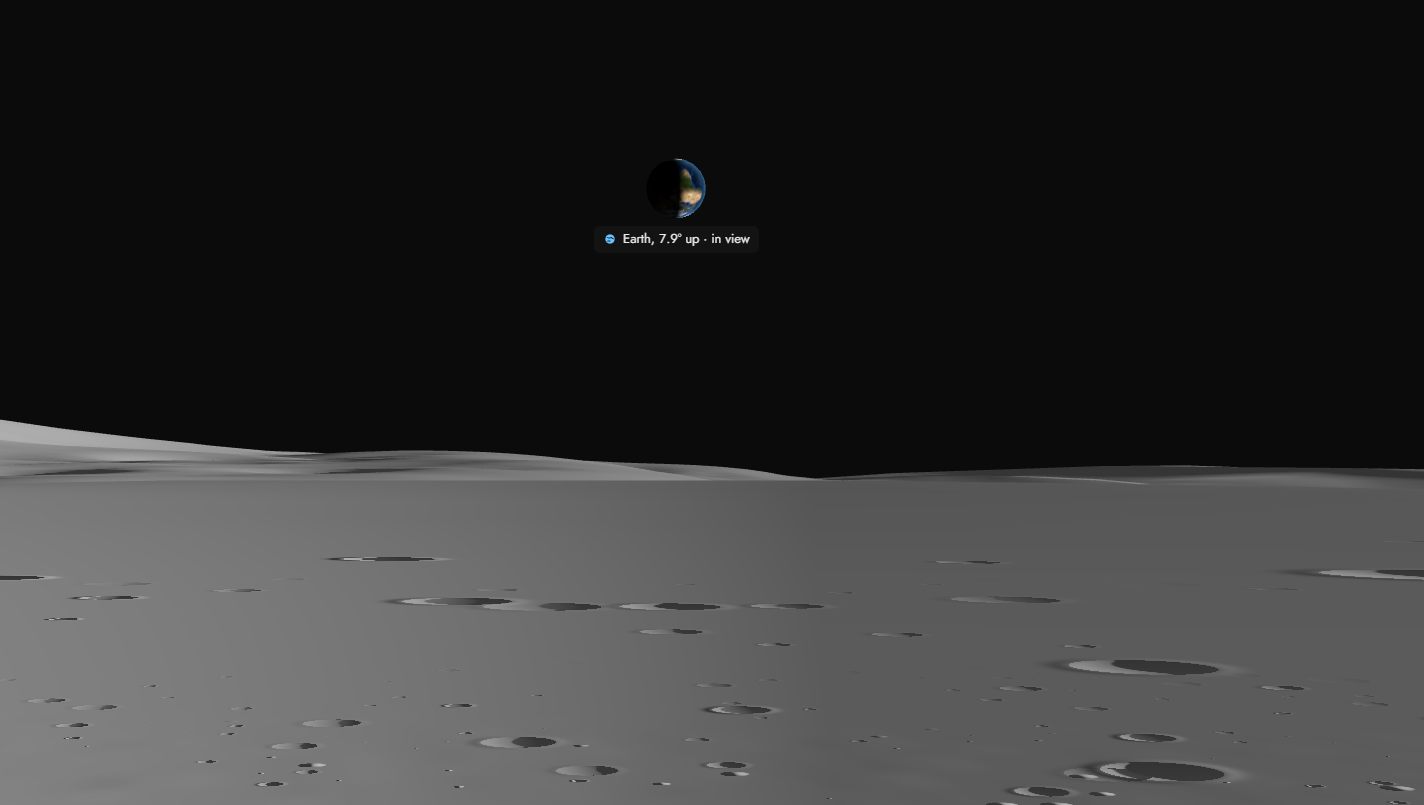
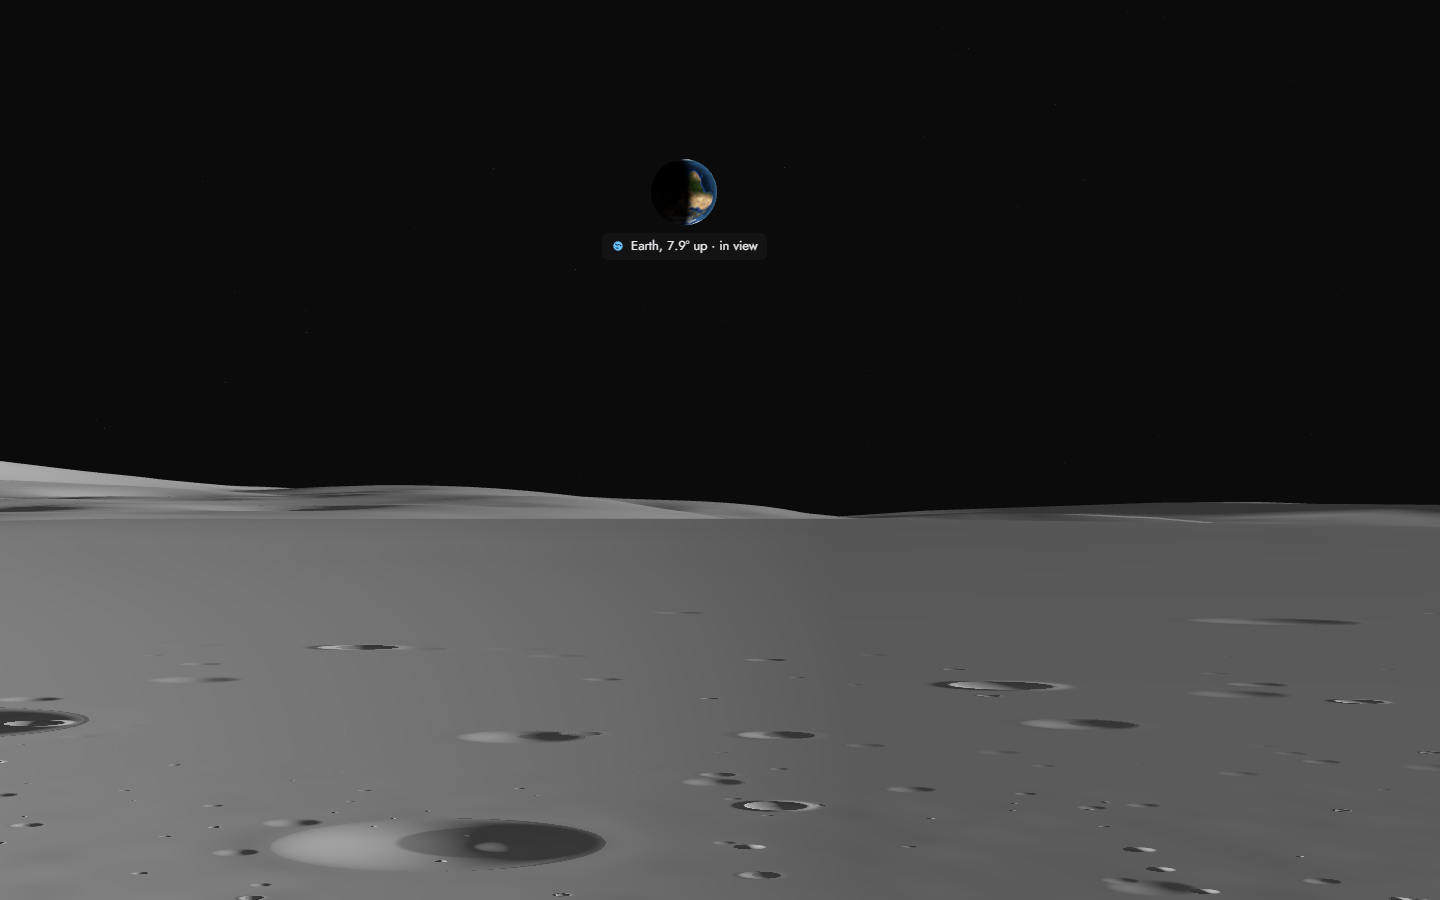
Docs: the disclosure rule, the texture, the ground on the quality governor, custom sites; DEVLOG review fixes

diff --git a/web/src/features/three/scene/scene.css b/web/src/features/three/scene/scene.css
@@ -133,6 +133,11 @@
 
   .scene-anchor-foot {
     transform: translate(-50%, -100%);
+    /* The decoration plate above the view's controls, both centred. */
+    display: flex;
+    flex-direction: column;
+    align-items: center;
+    gap: var(--s1);
   }
 
   .scene-plate-stack {

diff --git a/docs/features/local-terrain.md b/docs/features/local-terrain.md
@@ -109,7 +109,19 @@ drawing marches over the 20 km patch and the 300 km terrain around it, at 80 m a
 while the series used the full 300 km skyline from the 80 m map at 2 m above the ground.
 The browser never compares the two or judges the drawing; the plate says in every case
 which one is right. Example: Connecting Ridge, 2028-03-06 18:00 UTC. The series says dark,
-and the drawing shows a sunlit patch beside the lander.
+and the drawing shows a sunlit patch beside the lander. The plate's answer comes from
+`seriesSunAnswer` (`plates.ts`): the profile's hour flag and the series' disc fraction for
+the hour on the clock, tested on the shared fixture.
+
+**The disclosure is on screen wherever the drawing is** (`decorationDisclosure`,
+`visiblePlates` in `plates.ts`). Other plates and labels hide in a tight free space or while
+a floating window is open; this one does not:
+
+- With room (at least 360 × 140 px of free space and no window open): the plate above.
+- Tight (at least 200 × 56 px), or beside an open window such as Compare: one line,
+  "Shadows and ground texture are illustrative."
+- No room even for that line: no plate, and the ground is drawn plain, with no drawn
+  shadows and no texture, until the line fits again (`GroundLook.setDisclosed`).
 
 Two things keep the picture close to the truth:
 
@@ -143,20 +155,35 @@ are in `ground-relief.ts` and tested.
    as soft as the Sun's disc (0.27° radius). Toward the terrain's outer edge the drawn
    shadow fades out, because the globe beyond draws none. Pip does not cast a shadow: it is
    drawn 300 times larger than life, so its shadow would be a false stripe kilometres long.
-3. **Near-ground texture.** Close up, small craters (with the shadow of their own rim, as at
-   a low Sun), rocks and grain, made up in the shader. It is generic ground, not real
-   topography: the largest craters are about 11 m across, far below the 80 m data, it is a bump on the
-   lighting and a slight change of albedo only, it never moves the ground or the skyline,
-   and each size fades out as it shrinks to a few pixels, so it shows only close to the
-   camera and never at map scale.
+3. **Near-ground texture.** Close up, small craters, a few rocks and grain, made up in the
+   shader. The craters follow real small lunar craters: many small and few large; most old
+   and worn (a gentle bowl about 0.03 of its diameter deep, no rim), a few fresh (up to 0.2
+   of the diameter, with a sharp rim); scattered by chance in patches, with no grid. A bowl
+   is lit like everything else and, at a low Sun, partly filled by its sunward rim's shadow,
+   at half strength so the texture stays quieter than the real relief. It is generic ground,
+   not real topography: the largest craters are about 11 m across, far below the 80 m data;
+   it is a bump on the lighting and a slight change of albedo only; it never moves the
+   ground or the skyline; and each size fades out as it shrinks to a few pixels, so it
+   shows only close to the camera and never at map scale.
 4. **Tone.** A grey albedo from the Moon's colour map, its range narrowed; a lunar
    photometric function (Lommel–Seeliger and Lambert mixed by phase angle, with the
    brightening when looking down-Sun); and a faint fill from sunlit ground nearby and from
    earthshine (by Earth's phase, when Earth is up), so shadows are dark but not black.
 
-Each of 1 to 3 can be set to full, reduced or off (`GroundQuality`, `ground-quality.ts`),
-for the quality stages that measure frame time. For checking, the address takes
-`ground=reduced` (or `off`), or one effect, such as `ground-shadows=off`.
+Each of 1 to 3 can be set to full, reduced or off (`GroundQuality`, `ground-quality.ts`,
+`world.groundLook.setQuality`). For checking, the address takes `ground=reduced` (or
+`off`), or one effect, such as `ground-shadows=off`.
+
+**While moving on a slow machine** the ground follows the scene's quality governor
+(`perf.ts`; decision 0014): each frame the scene calls
+`world.groundLook.setMotion(moving, stage)`. Stage 0 draws the full ground, still and
+moving. While moving, stage 1 draws every second grid point with shadows reduced, stage 2
+also drops the texture, and stage 3 draws every fourth point with no drawn shadows
+(`MOTION_DETAIL` in `ground-material.ts`). The governor's frame at rest puts the full ground
+back. The coarser meshes share the full mesh's index buffer and are picked by draw range,
+and the effects switch by uniforms, so nothing recompiles or uploads. When a site's ground
+is built, `world.prepareGround` compiles its shader and draws it once off-screen, so its
+meshes and height textures are on the GPU before the first flight.
 
 ## Performance
 
@@ -171,6 +198,14 @@ for the quality stages that measure frame time. For checking, the address takes
   throttling: all full 1.75 ms, all reduced 1.06 ms. Software rendering (SwiftShader):
   1.67 s a frame with every effect off, 2.05 s reduced, 2.37 s full; the app shows its
   still picture there anyway. At rest the scene draws no frames.
+- On a software GPU (SwiftShader), the whole Local terrain frame at 1440 × 900 (canvas
+  1424 × 805, pixel ratio 1), one run each on a heavily loaded machine, 2026-11-14: 2,301 ms
+  with the full ground; while moving, 1,727 ms at stage 1, 1,705 ms at stage 2, 1,486 ms at
+  stage 3; 958 ms with no ground at all. At stage 3's moving pixel ratio of 0.5: 1,095 ms
+  with the full ground, 555 ms with stage 3's ground. The first frame showing a new site's
+  ground stalled about 3.0 s without `prepareGround` (3,963 ms against 937 ms for the next)
+  and about 1.0 s with it (2,005 against 986); the 2.4 s it moves is paid when the site's
+  data arrives, not during the flight.
 - The terrain files are 0.18 MB per site and load for the focused site only.
 - Geometry and textures are released when the site changes or the view closes.
 
@@ -180,6 +215,9 @@ for the quality stages that measure frame time. For checking, the address takes
   Apollo 11. It is far from the pole, so TrueSouth treats the ground there as a smooth
   sphere." A button offers "Show Apollo 11 in the System view", and the camera follows the
   site on the globe instead of descending.
+- **A site with no terrain around the patch by design (a custom site):** the scene's
+  metadata lists no apron for it, so the 20 km patch is drawn alone and no plate says
+  anything is missing. An apron that is listed but fails to load keeps its message.
 - **Missing terrain in part of the mesh:** holes are left open, not filled.
 - **Terrain still loading.** Proposed: the camera flies, and the ground appears when it is
   ready; the globe stays in place until then. Reason: a flight should never wait on a file.

diff --git a/DEVLOG.md b/DEVLOG.md
@@ -961,6 +961,29 @@ Every one of the 65 proposed keys has a definition, source arrays, availability,
     2 km) for the Lander's eye near ground, already in the contracts as `closeup.bin`; (5) an
     albedo map of the cap in the same projection (the LROC colour map is 2.7 km a pixel at
     the pole).
+  - Review fixes (Codex review of #91), 2026-11-14:
+    - The disclosure is on screen wherever the drawing is: the decoration plate is exempt
+      from the overlay's hiding, shortens to "Shadows and ground texture are illustrative."
+      in a tight space or beside an open window, and where not even that fits the ground is
+      drawn without shadows and texture (`decorationDisclosure`, `visiblePlates`,
+      `GroundLook.setDisclosed`). Checked by eye: Compare open (no room: plain ground, no
+      plate; closed again: full), 1024 × 640, a 390 × 844 phone, Lander's eye with the chart
+      folded and open (the plate sits above the view's controls, clear of the chart's row).
+    - The plate's series answer is `seriesSunAnswer`, tested on fixture_ridge at a lit, a
+      dark and a partly hidden hour; a constant "lit" fails two tests, and a test pins the
+      one line in `scene-root.tsx` that passes it.
+    - Texture: craters like real small lunar ones (mostly old and shallow, a few fresh),
+      clustered with no grid, rim shadows at half strength, fewer rocks.
+    - Weak GPU: the ground follows #88's quality governor (`setMotion(moving, stage)`), with
+      coarser meshes by draw range; `prepareGround` uploads the ground before the first
+      flight. Numbers in local-terrain.md, "Performance".
+    - Custom sites (no apron listed) draw the patch alone with no error plate.
+    - One shared draw hook (no per-draw allocation); the loop bounds' comment says why they
+      are uniforms. A WebGL 1-only browser: the scene's own probe (`scene-root.tsx`,
+      `probeWebgl`) asks for WebGL 2 and reports "no-webgl"; the shell's probe
+      (`app/mission/scene-slot.tsx`) accepts WebGL 1 and would mount the scene, which then
+      reports "no-webgl" itself. Not changed here.
+    - Decision renamed 0015 (#88 added 0014).
 
 #### 2026-11-14 · Scene polish · Controls, real stars, and speed on weak machines
 - **Who:** Claude Code agent, for the orchestrator
